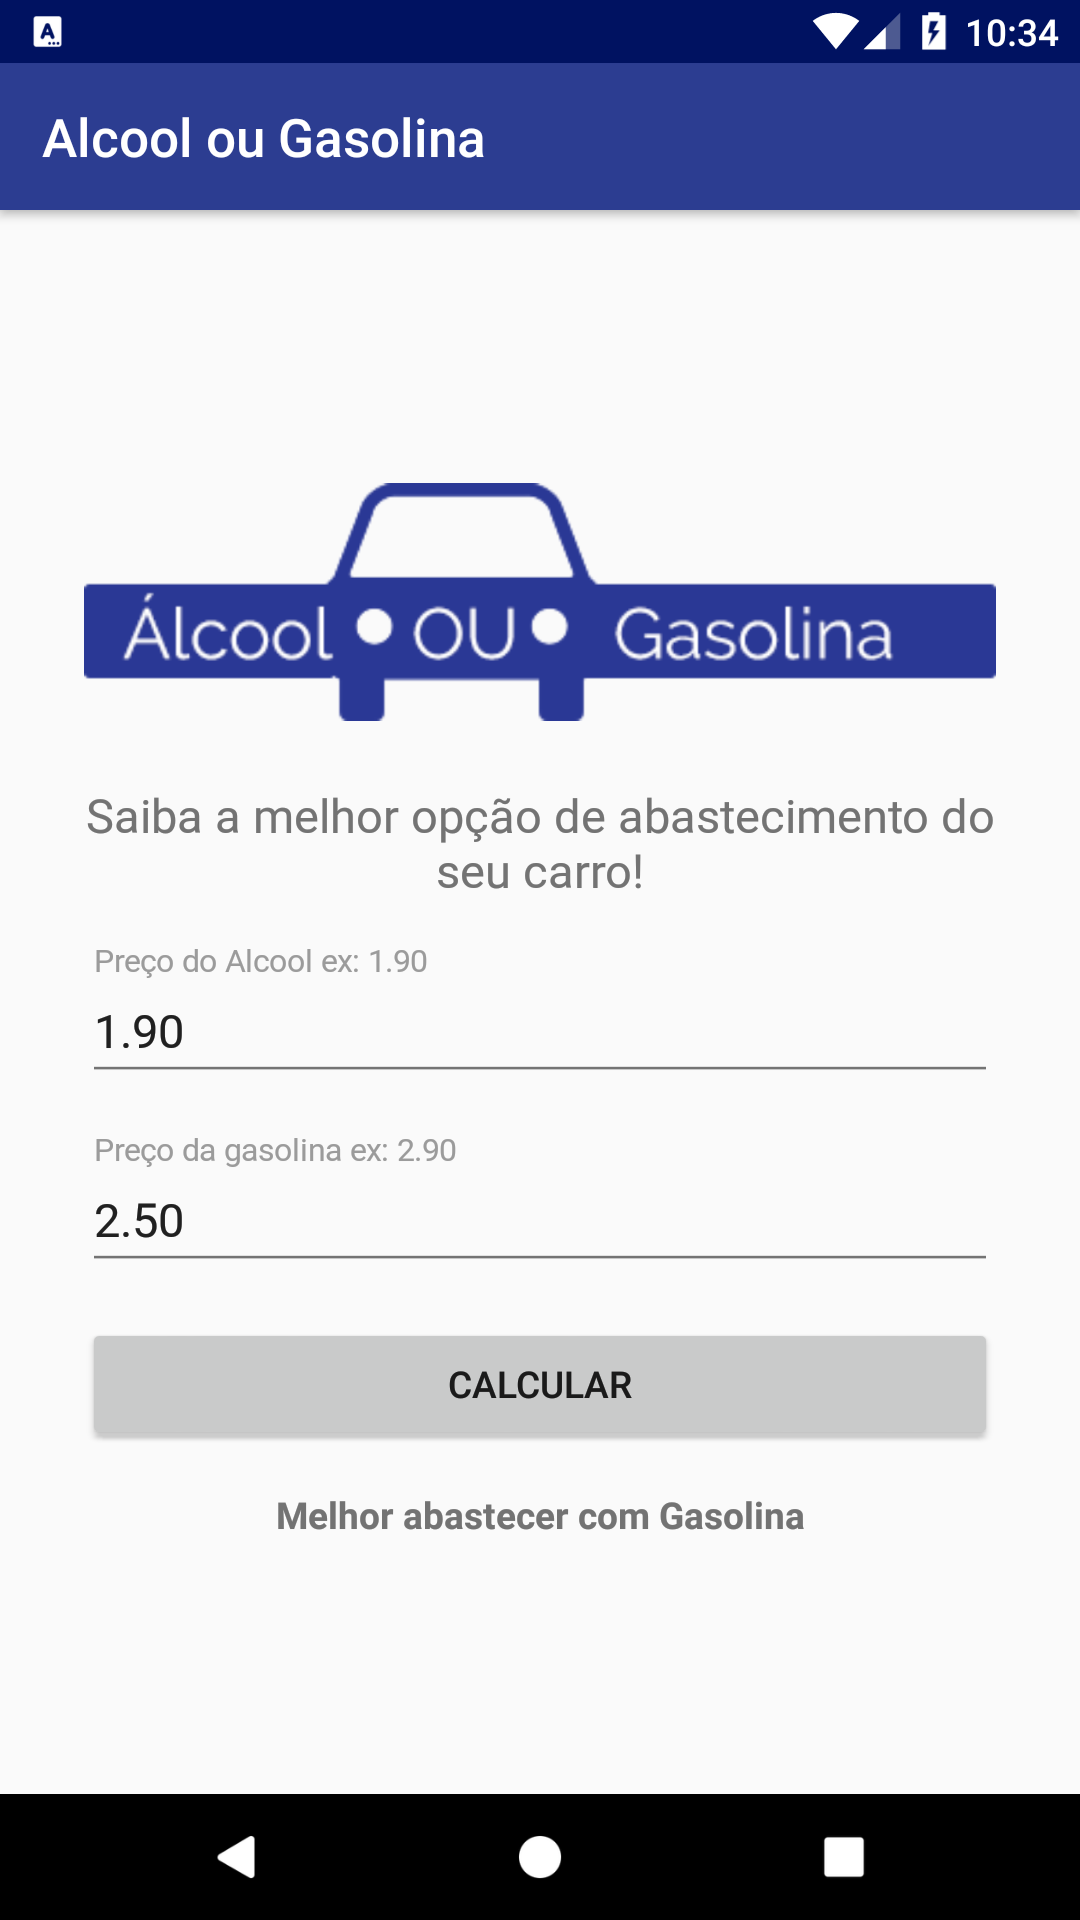
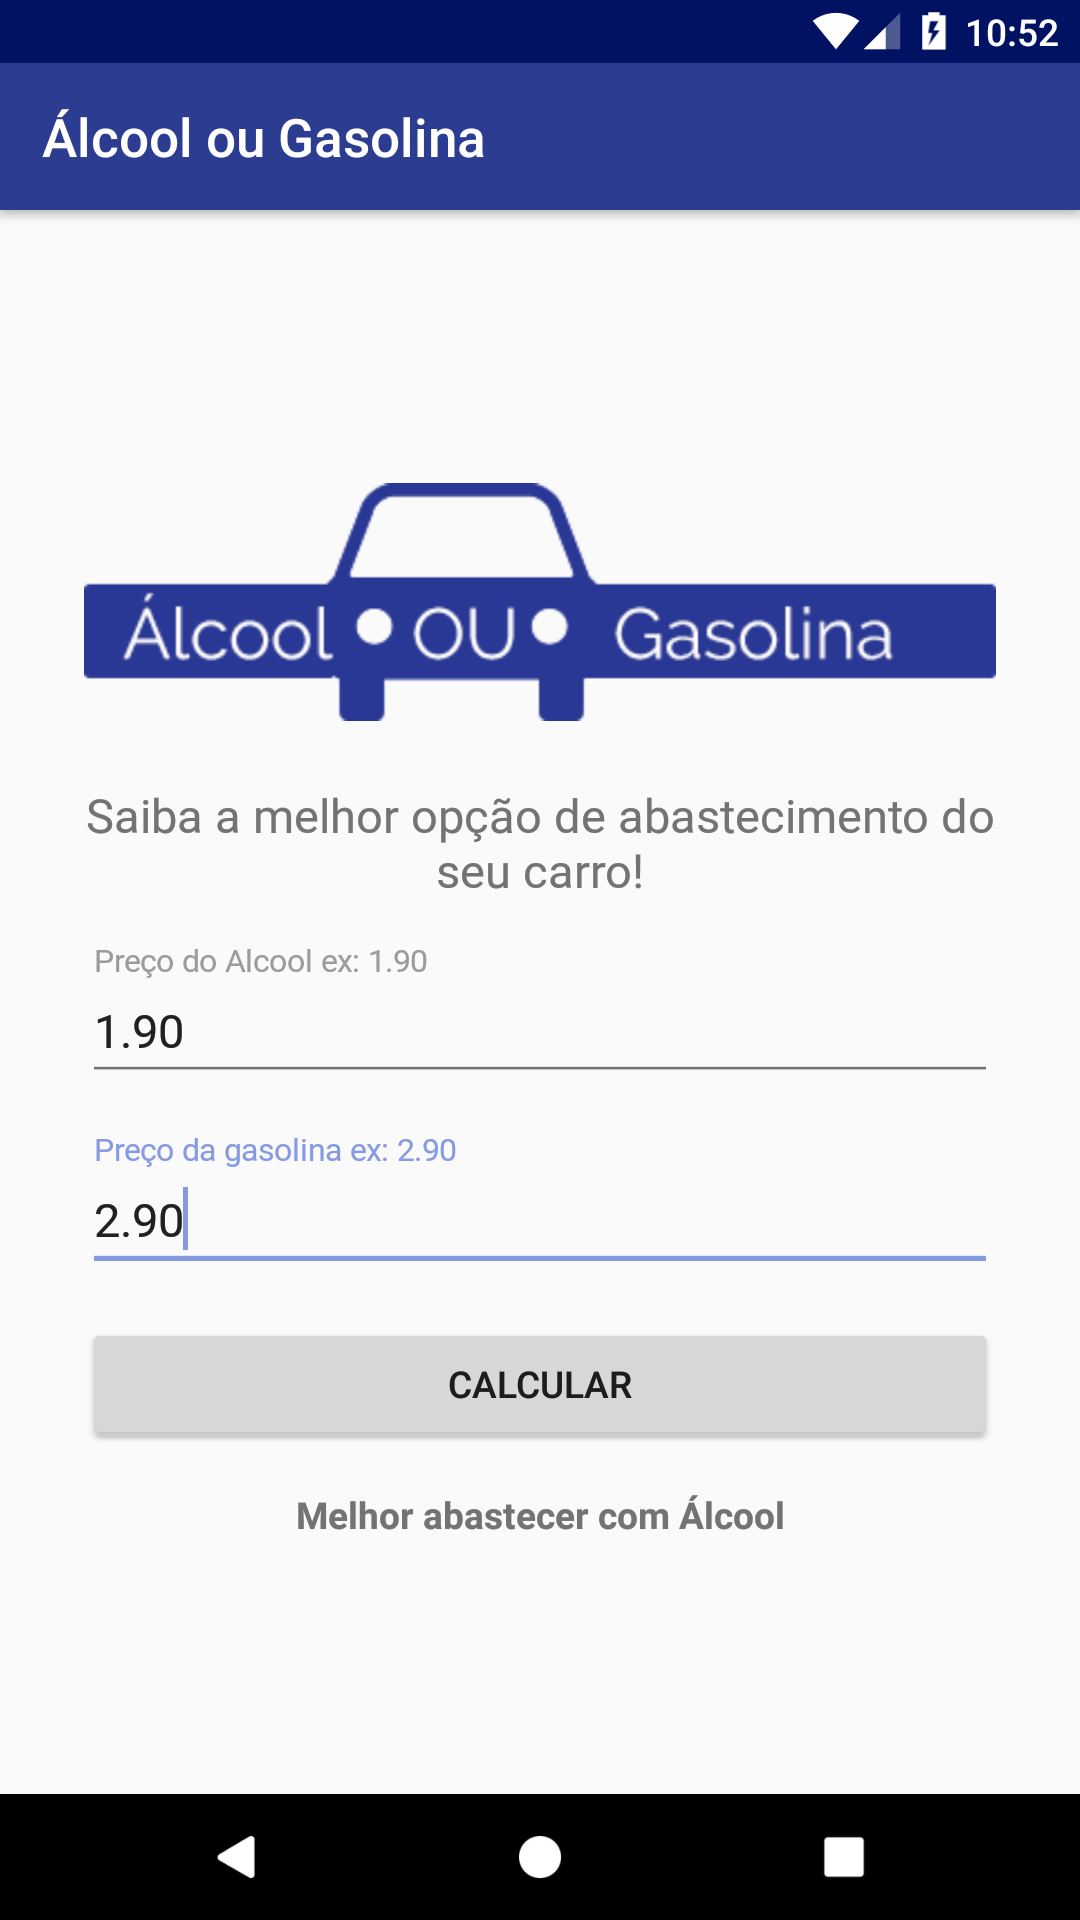
feat: app 4 finished

diff --git a/4-Alcohol or gasoline/app/src/main/java/br/com/fernando/alcoolougasolina/MainActivity.java b/4-Alcohol or gasoline/app/src/main/java/br/com/fernando/alcoolougasolina/MainActivity.java
@@ -3,16 +3,18 @@ package br.com.fernando.alcoolougasolina;
 import android.os.Bundle;
 import android.view.View;
 import android.widget.Button;
-import android.widget.EditText;
 import android.widget.TextView;
+import android.widget.Toast;
 
 import androidx.appcompat.app.AppCompatActivity;
 
+import com.google.android.material.textfield.TextInputEditText;
+
 public class MainActivity extends AppCompatActivity {
 
-    Button btnCalculate;
-    TextView tvResponse;
-    EditText etAlcohol, etGasoline;
+    private Button btnCalculate;
+    private TextView tvResult;
+    private TextInputEditText etAlcohol, etGasoline;
 
     @Override
     protected void onCreate(Bundle savedInstanceState) {
@@ -21,7 +23,7 @@ public class MainActivity extends AppCompatActivity {
 
         etAlcohol = findViewById(R.id.etAlcohol);
         etGasoline = findViewById(R.id.etGasoline);
-        tvResponse = findViewById(R.id.tvResult);
+        tvResult = findViewById(R.id.tvResult);
         btnCalculate = findViewById(R.id.btnCalculate);
 
 
@@ -35,19 +37,35 @@ public class MainActivity extends AppCompatActivity {
 
     }
 
+    private Boolean validateFields(String alcoholPrice, String gasolinePrice) {
+        if (alcoholPrice == null || alcoholPrice.equals("")) {
+            return false;
+        }
+        return gasolinePrice != null && !gasolinePrice.equals("");
+    }
+
     private void calculateBestOption() {
-        double alcoholPrice = Double.parseDouble(etAlcohol.getText().toString().replace(",", "."));
-        double gasolinePrice = Double.parseDouble(etGasoline.getText().toString().replace(",", "."));
+
+        String alcoholValue = etAlcohol.getText().toString();
+        String gasolineValue = etGasoline.getText().toString();
+
+        Boolean isFieldsFilled = validateFields(alcoholValue, gasolineValue);
+
+        if (!isFieldsFilled) {
+            Toast.makeText(this, "Preencha todos os Campos!", Toast.LENGTH_SHORT).show();
+            return;
+        }
+
+        double alcoholPrice = Double.parseDouble(alcoholValue);
+        double gasolinePrice = Double.parseDouble(gasolineValue);
 
         double result = alcoholPrice / gasolinePrice * 100;
 
         if (result > 70 || alcoholPrice > gasolinePrice) {
-            tvResponse.setText("Melhor abastecer com Gasolina");
+            tvResult.setText("Melhor abastecer com Gasolina");
         } else {
-            tvResponse.setText("Melhor abastecer com Álcool");
+            tvResult.setText("Melhor abastecer com Álcool");
         }
-
-        System.out.println(result);
 
 
     }
